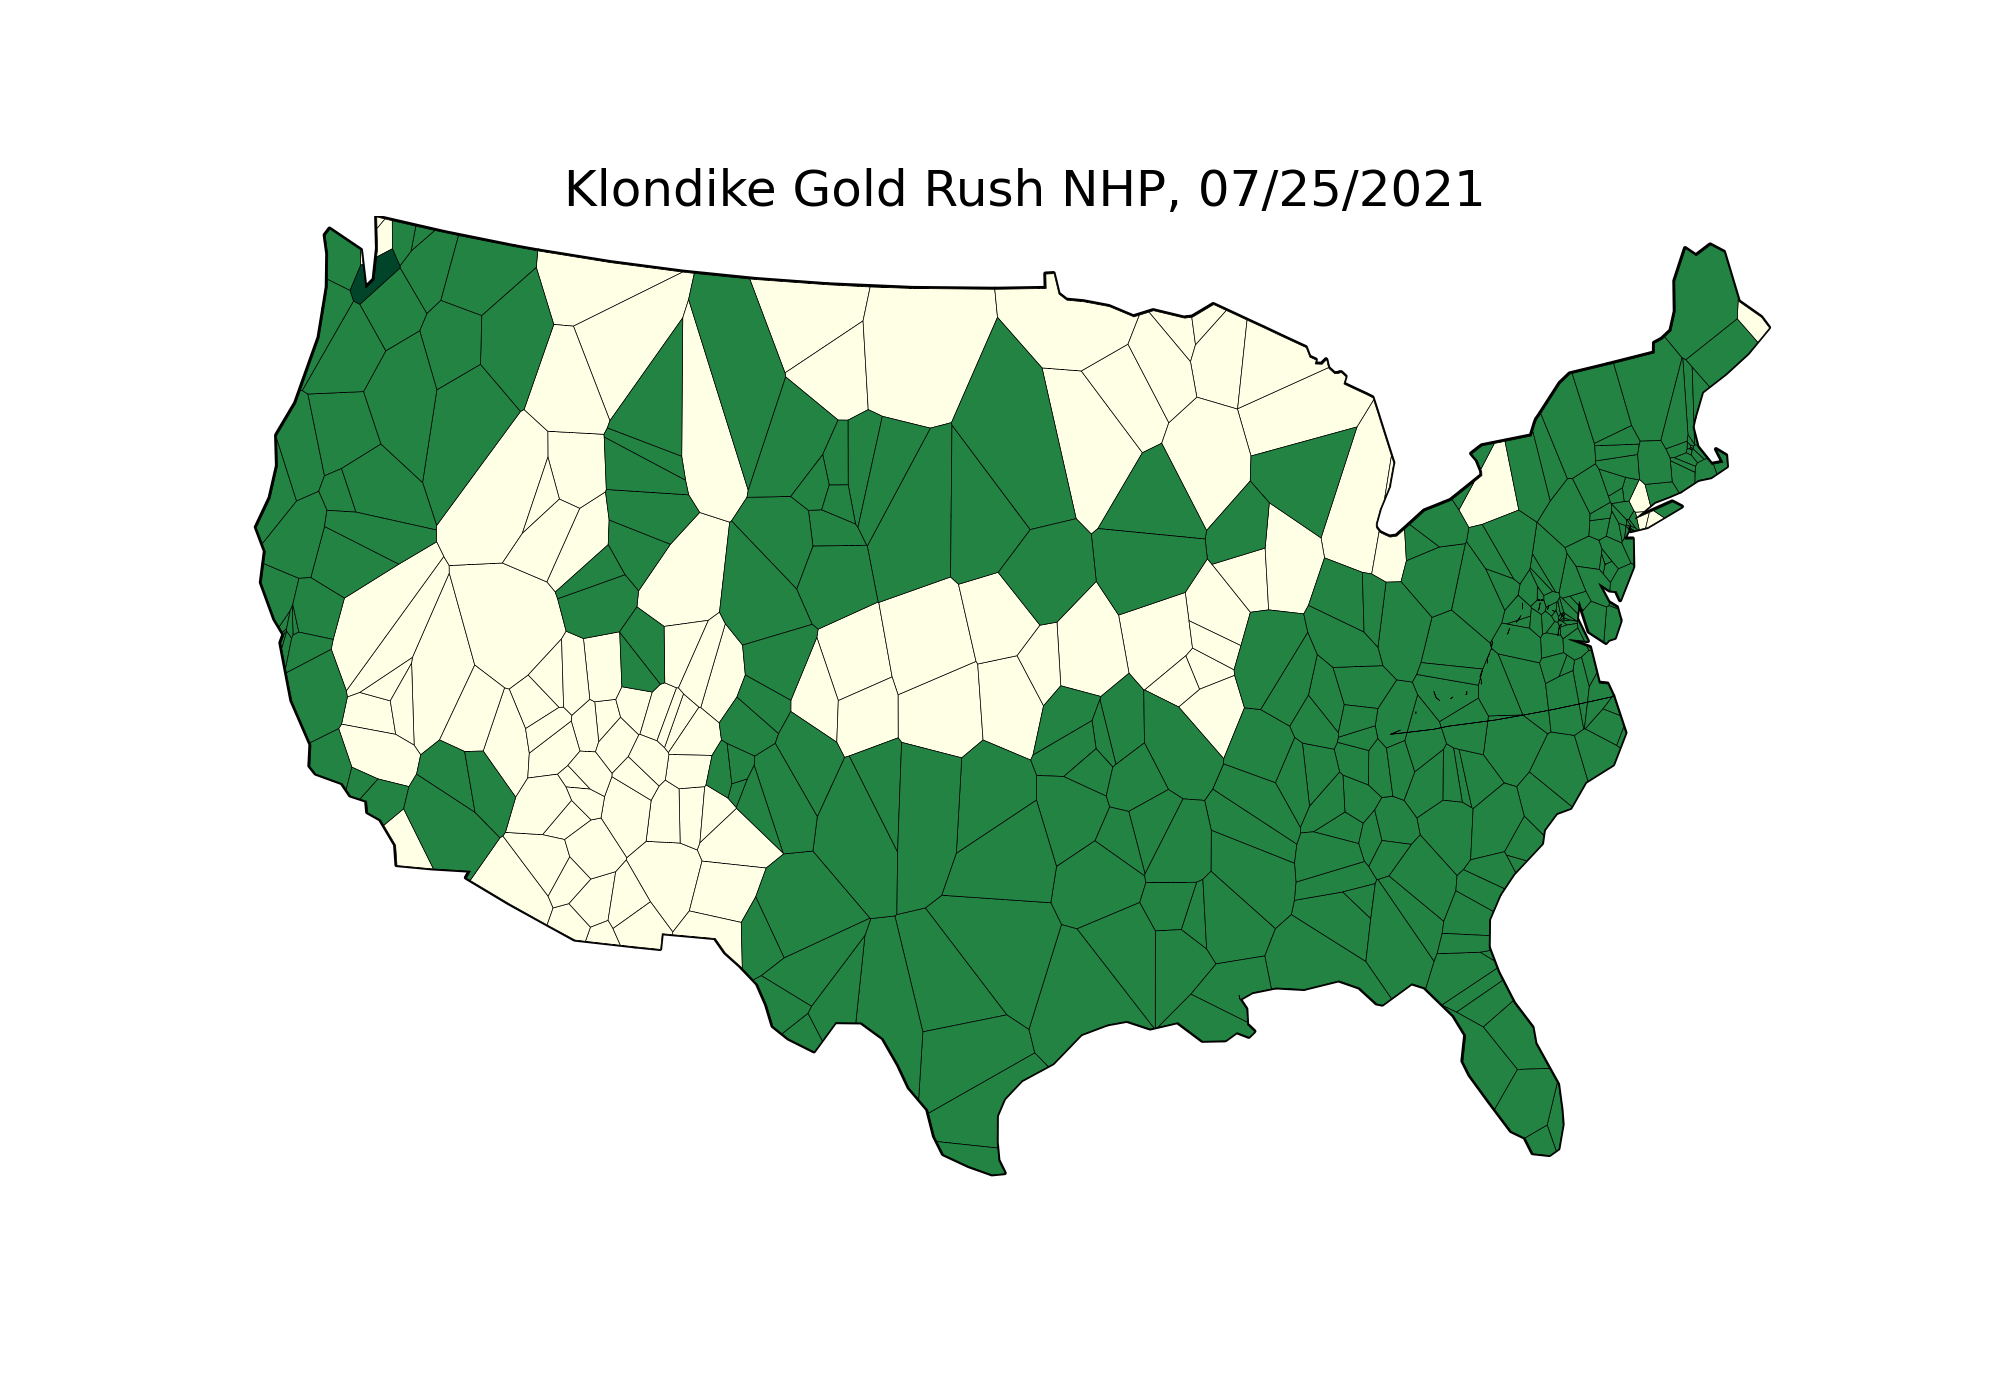
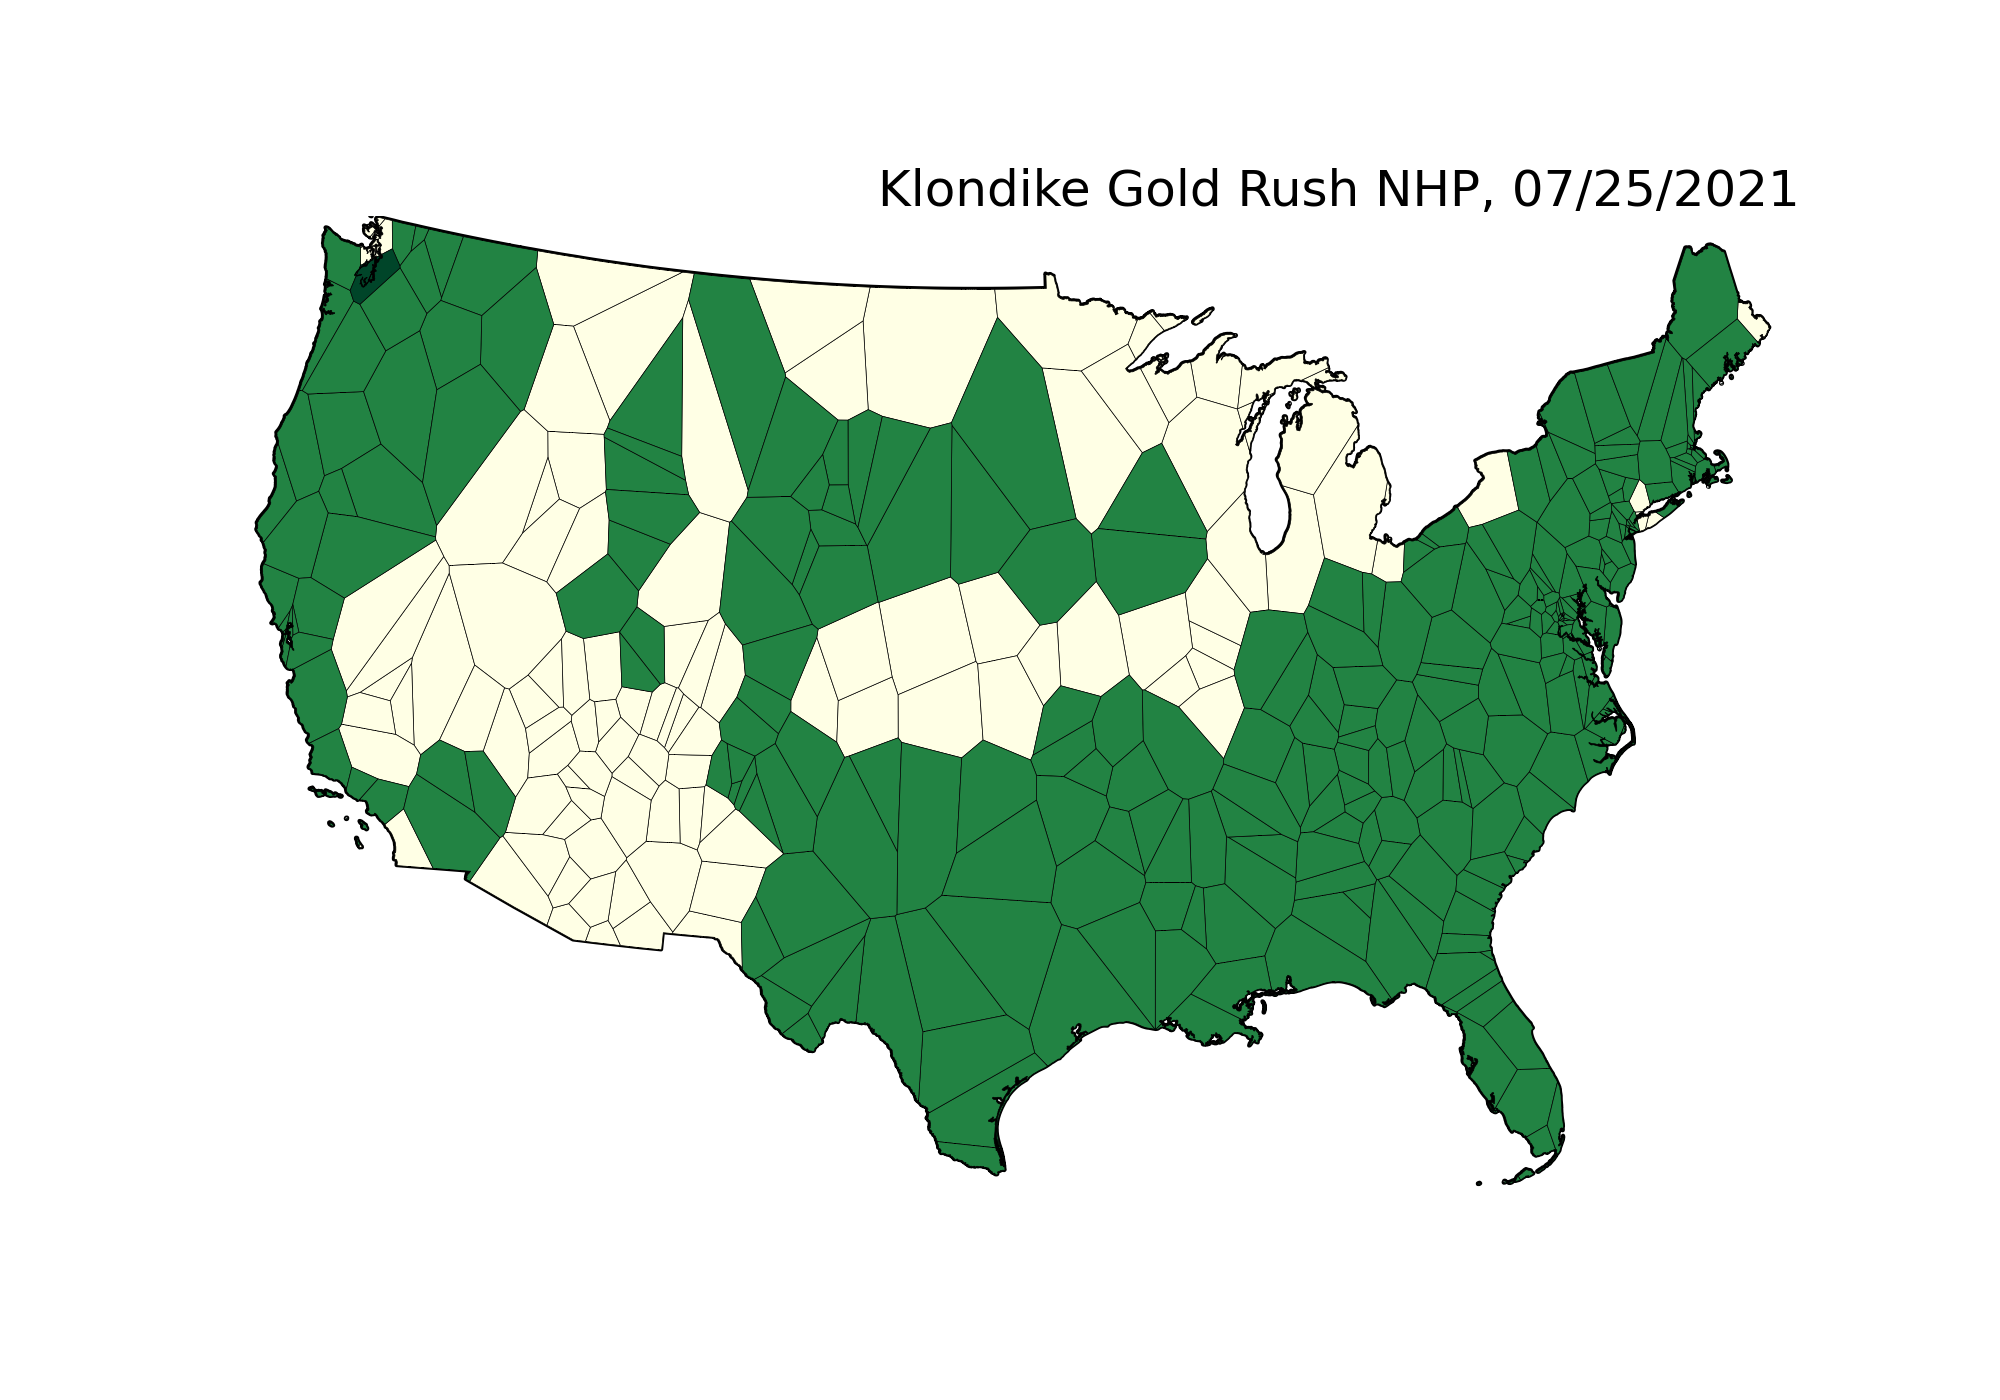
create new base image set without virginia border problem

diff --git a/main.py b/main.py
@@ -69,10 +69,7 @@ df = pd.read_table("nps_list.csv", delimiter =",")
 df = df.sort_values(by=['date'])
 
 # Import USA data for region clipping
-USA = geopandas.read_file(geoplot.datasets.get_path('contiguous_usa'))
-shapefile = geopandas.read_file("cb_2018_us_nation_5m/cb_2018_us_nation_5m.shp")
-print(USA)
-print(shapefile)
+USA = geopandas.read_file("cb_2018_us_nation_5m/cb_2018_us_nation_5m.shp")
 
 # Set the map projection
 proj = geoplot.crs.AlbersEqualArea(central_longitude=-98, central_latitude=39.5)
@@ -92,10 +89,11 @@ for index, row in df.iterrows():
 
         # Plot the current map state
         counter += 1
-        # plot_voronoi(counter, index, geodf=gdf, basemap=USA, projection=proj, site=row)
-        # print(row)
+        plot_voronoi(counter, index, geodf=gdf, basemap=USA, projection=proj, site=row)
+        
         # Set current region to inactive
         df.at[index,'values'] = 0.75
 
-print(counter)
-plot_voronoi(counter, index, geodf=gdf, basemap=shapefile, projection=proj, site=row)
+# Toubleshooting Map
+# print(counter)
+# plot_voronoi(counter, index, geodf=gdf, basemap=USA, projection=proj, site=row)
